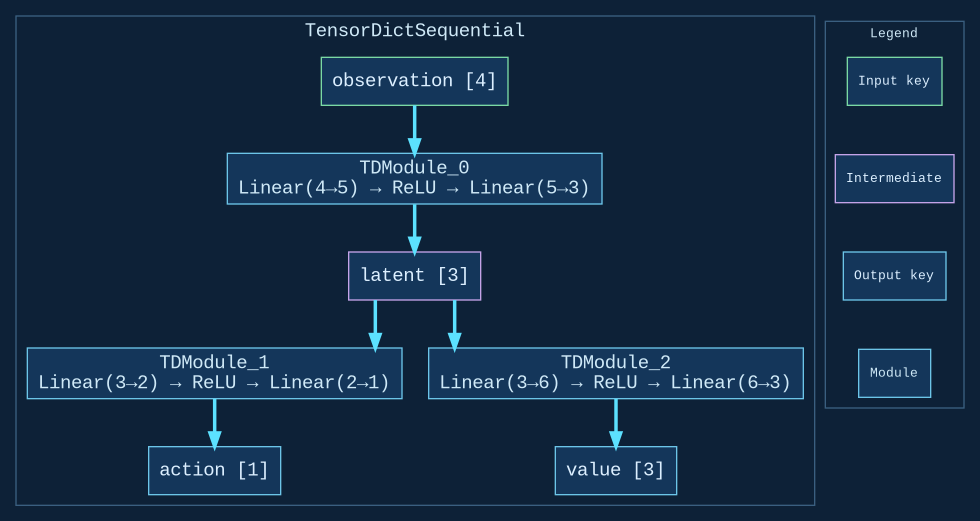
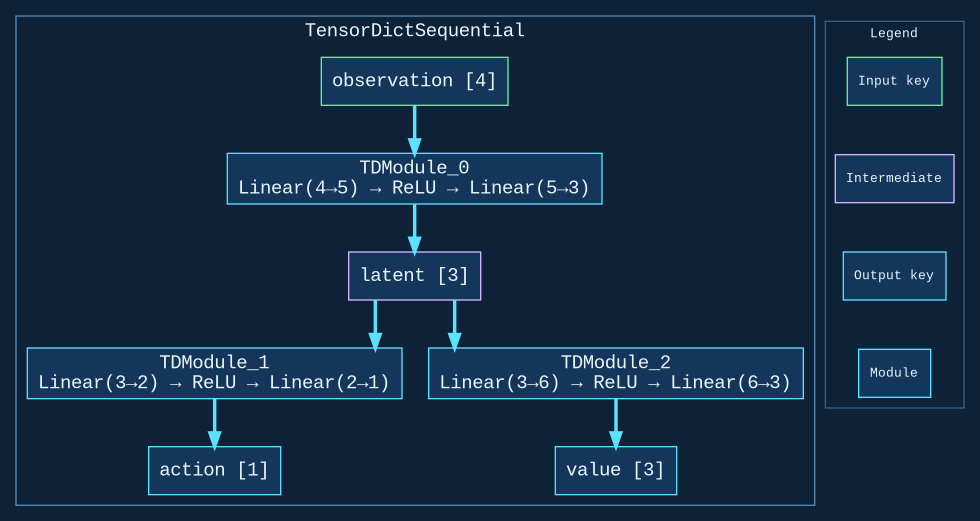
Brighten blueprint node borders — the box outlines, not just the arrows
The earlier edge tweaks only touched the connecting arrows. The dominant
cyan in a blueprint diagram is the node box outlines (module_border /
key_*_border), which were still the old dull #6cc5e8. Pixel check on the
rendered PNG confirmed it: #6cc5e8 now drops to 0px, #5ce1ff rises to 3532.

Brighten all blueprint borders to match the electric edges:
- module_border / key_output_border -> #5ce1ff
- key_input_border -> brighter green, key_intermediate_border -> brighter purple
- key_state_border -> bright amber, cluster_border -> lighter/visible
- module_text / key_text lifted to #eaf6ff

diff --git a/tensordictviz/themes.py b/tensordictviz/themes.py
@@ -132,23 +132,23 @@ BLUEPRINT: Dict[str, str] = {
     "bg": "#0d2137",
     "font": "Courier New",
     "module_fill": "#14365a",
-    "module_border": "#6cc5e8",
-    "module_text": "#cfe9f7",
+    "module_border": "#5ce1ff",
+    "module_text": "#eaf6ff",
     # All key fills share one dark tone; the role is read from the border color.
     "key_input": "#14365a",
-    "key_input_border": "#7ad9a4",
+    "key_input_border": "#5cf2a8",
     "key_intermediate": "#14365a",
-    "key_intermediate_border": "#c4a3e8",
+    "key_intermediate_border": "#d9b3ff",
     "key_output": "#14365a",
-    "key_output_border": "#6cc5e8",
+    "key_output_border": "#5ce1ff",
     "key_state": "#14365a",
-    "key_state_border": "#f0c674",
-    "key_text": "#dcefff",
+    "key_state_border": "#ffd97a",
+    "key_text": "#eaf6ff",
     "edge_internal": "#8fd4f2",
     "edge_key": "#5ce1ff",
     "edge_state": "#ffd97a",
     "edge_penwidth": "2.6",
-    "cluster_border": "#3a5f80",
+    "cluster_border": "#5a8bb5",
     "cluster_fill": "#0d2137",
     "cluster_inner_fill": "#14365a",
     "probabilistic_fill": "#14365a",